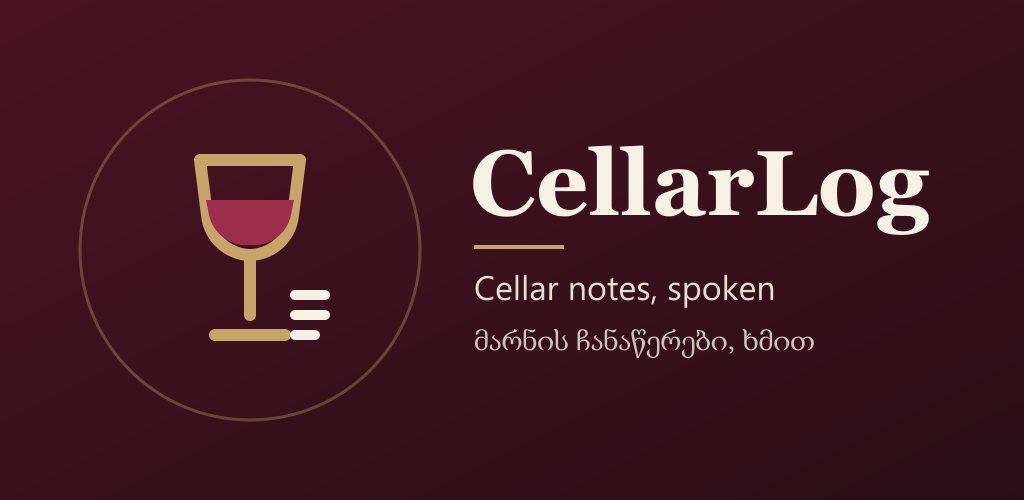
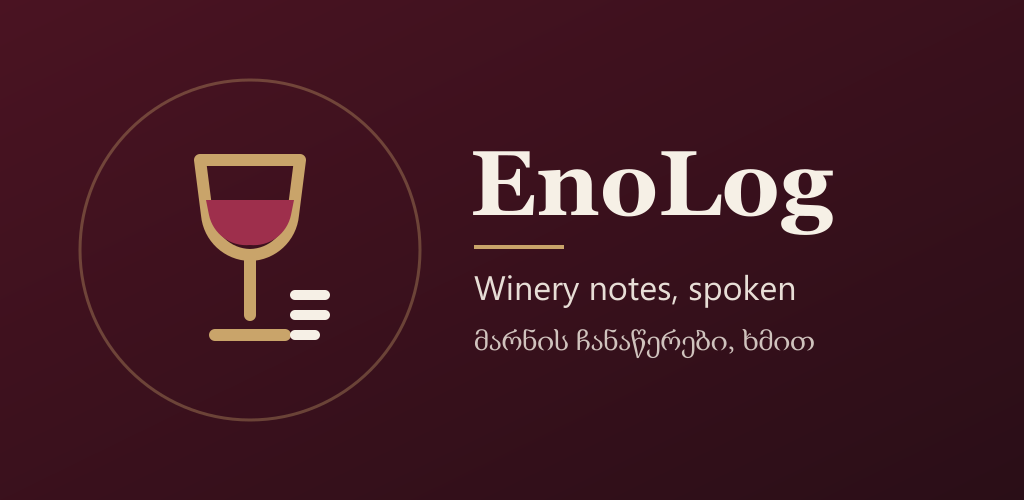
Rename the app to EnoLog (Play title: EnoLog: Winery Notes)

Changed region(s): [[0.4375, 0.27, 0.9062, 0.48], [0.4375, 0.54, 0.7812, 0.63]]

diff --git a/public/privacy.html b/public/privacy.html
@@ -3,8 +3,8 @@
 <head>
 <meta charset="utf-8">
 <meta name="viewport" content="width=device-width, initial-scale=1">
-<title>CellarLog – Privacy policy</title>
-<meta name="description" content="How CellarLog handles your data. კონფიდენციალურობის პოლიტიკა.">
+<title>EnoLog – Privacy policy</title>
+<meta name="description" content="How EnoLog handles your data. კონფიდენციალურობის პოლიტიკა.">
 <style>
   :root {
     --bg: #F6F0E6; --surface: #FFFDF9; --text: #241A17; --muted: #6B5B53;
@@ -43,7 +43,7 @@
 <body>
 <header>
   <div class="inner">
-    <h1>CellarLog</h1>
+    <h1>EnoLog</h1>
     <p>Privacy policy · კონფიდენციალურობის პოლიტიკა</p>
     <nav><a href="#en">English</a><a href="#ka">ქართული</a></nav>
   </div>
@@ -54,7 +54,7 @@
   <h2>Privacy policy</h2>
   <p class="muted">Last updated: 9 October 2026</p>
   <div class="card">
-    <p>CellarLog is a cellar log for winemakers: you record notes, additions and lab analyses for your tanks. This policy explains what data the app keeps, why, and how you can delete it. It applies to the Android app and the website at cellarlog.vercel.app.</p>
+    <p>EnoLog is a cellar log for winemakers: you record notes, additions and lab analyses for your tanks. This policy explains what data the app keeps, why, and how you can delete it. It applies to the Android app and the website at cellarlog.vercel.app.</p>
 
     <h3>What we store</h3>
     <ul>
@@ -64,7 +64,7 @@
     </ul>
 
     <h3>Voice notes and the microphone</h3>
-    <p>The app uses the microphone only while you tap the record button. Your speech is turned into text by your phone's own speech recognition (Google's service on Android), either on the phone or, if offline English isn't installed, by Google online. CellarLog never records, stores or receives audio. Only the text you choose to save is kept, as part of your entry.</p>
+    <p>The app uses the microphone only while you tap the record button. Your speech is turned into text by your phone's own speech recognition (Google's service on Android), either on the phone or, if offline English isn't installed, by Google online. EnoLog never records, stores or receives audio. Only the text you choose to save is kept, as part of your entry.</p>
 
     <h3>What we don't do</h3>
     <ul>
@@ -92,7 +92,7 @@
     <p>Deletion is permanent and immediate; nothing is kept afterwards except what the service providers keep in short-term backups, which expire on their own.</p>
 
     <h3>Children</h3>
-    <p>CellarLog is a professional tool for winemakers and is not meant for children under 13.</p>
+    <p>EnoLog is a professional tool for winemakers and is not meant for children under 13.</p>
 
     <h3>Changes and contact</h3>
     <p>If this policy changes, the new version will be posted on this page with a new date. Questions: <strong>menognishviligiorgi@gmail.com</strong>.</p>
@@ -103,7 +103,7 @@
   <h2>კონფიდენციალურობის პოლიტიკა</h2>
   <p class="muted">ბოლო განახლება: 2026 წლის 9 ოქტომბერი</p>
   <div class="card">
-    <p>CellarLog მეღვინის მარნის ჟურნალია: თქვენ ინახავთ შენიშვნებს, დამატებებს და ლაბორატორიულ ანალიზებს თქვენი ცისტერნებისთვის. ეს პოლიტიკა განმარტავს, რა მონაცემებს ინახავს აპი, რატომ და როგორ შეგიძლიათ მათი წაშლა. ის ვრცელდება Android აპზე და ვებგვერდზე cellarlog.vercel.app.</p>
+    <p>EnoLog მეღვინის მარნის ჟურნალია: თქვენ ინახავთ შენიშვნებს, დამატებებს და ლაბორატორიულ ანალიზებს თქვენი ცისტერნებისთვის. ეს პოლიტიკა განმარტავს, რა მონაცემებს ინახავს აპი, რატომ და როგორ შეგიძლიათ მათი წაშლა. ის ვრცელდება Android აპზე და ვებგვერდზე cellarlog.vercel.app.</p>
 
     <h3>რას ვინახავთ</h3>
     <ul>
@@ -113,7 +113,7 @@
     </ul>
 
     <h3>ხმოვანი ჩანაწერები და მიკროფონი</h3>
-    <p>აპი მიკროფონს მხოლოდ მაშინ იყენებს, როცა ჩაწერის ღილაკს შეეხებით. ხმას ტექსტად თქვენი ტელეფონის ხმის ამოცნობა აქცევს (Android-ზე Google-ის სერვისი) — ტელეფონზევე, ან, თუ ინგლისური ენა ოფლაინისთვის ჩამოტვირთული არ არის, Google-ის ონლაინ სერვისით. CellarLog აუდიოს არასოდეს იწერს, არ ინახავს და არ იღებს. ინახება მხოლოდ ის ტექსტი, რომელსაც თავად შეინახავთ ჩანაწერში.</p>
+    <p>აპი მიკროფონს მხოლოდ მაშინ იყენებს, როცა ჩაწერის ღილაკს შეეხებით. ხმას ტექსტად თქვენი ტელეფონის ხმის ამოცნობა აქცევს (Android-ზე Google-ის სერვისი) — ტელეფონზევე, ან, თუ ინგლისური ენა ოფლაინისთვის ჩამოტვირთული არ არის, Google-ის ონლაინ სერვისით. EnoLog აუდიოს არასოდეს იწერს, არ ინახავს და არ იღებს. ინახება მხოლოდ ის ტექსტი, რომელსაც თავად შეინახავთ ჩანაწერში.</p>
 
     <h3>რას არ ვაკეთებთ</h3>
     <ul>
@@ -141,7 +141,7 @@
     <p>წაშლა მყისიერი და საბოლოოა; შემდეგ არაფერი რჩება, გარდა სერვისის მომწოდებლების მოკლევადიანი სარეზერვო ასლებისა, რომლებიც თავისით იშლება.</p>
 
     <h3>ბავშვები</h3>
-    <p>CellarLog მეღვინეების პროფესიული ინსტრუმენტია და 13 წლამდე ბავშვებისთვის არ არის განკუთვნილი.</p>
+    <p>EnoLog მეღვინეების პროფესიული ინსტრუმენტია და 13 წლამდე ბავშვებისთვის არ არის განკუთვნილი.</p>
 
     <h3>ცვლილებები და კონტაქტი</h3>
     <p>თუ ეს პოლიტიკა შეიცვლება, ახალი ვერსია ამ გვერდზე გამოქვეყნდება ახალი თარიღით. კითხვები: <strong>menognishviligiorgi@gmail.com</strong>.</p>

diff --git a/lib/i18n/ka.ts b/lib/i18n/ka.ts
@@ -117,7 +117,7 @@ export const ka: Strings = {
     off: 'გამორთულია',
     every: (hours) => `ყოველ ${hours} სთ-ში`,
     body: 'დროა გაზომვისთვის: სიმკვრივე და ტემპერატურა.',
-    blocked: 'CellarLog-ისთვის შეტყობინებები დაბლოკილია. ტელეფონის პარამეტრებში ჩართეთ და სცადეთ ხელახლა.',
+    blocked: 'EnoLog-ისთვის შეტყობინებები დაბლოკილია. ტელეფონის პარამეტრებში ჩართეთ და სცადეთ ხელახლა.',
   },
 
   lineage: {
@@ -272,11 +272,11 @@ export const ka: Strings = {
     reviewNote: 'ტექსტის შემოწმება',
     forTank: (name) => name,
     voiceNeedsBuild:
-      'ხმოვან ჩანაწერებს CellarLog-ის აპი სჭირდება. Expo Go-ში ხმის ამოცნობა არ არის. შეგიძლიათ ტექსტი ქვემოთ აკრიფოთ.',
-    voiceInApp: 'ხმოვანი ჩანაწერები CellarLog-ის Android აპში მუშაობს. აქ აკრიფეთ შენიშვნა ქვემოთ ან გამოიყენეთ „ანალიზი“.',
-    micBlocked: 'მიკროფონი CellarLog-ისთვის გამორთულია. ჩართეთ პარამეტრებში ან აკრიფეთ ტექსტი ქვემოთ.',
+      'ხმოვან ჩანაწერებს EnoLog-ის აპი სჭირდება. Expo Go-ში ხმის ამოცნობა არ არის. შეგიძლიათ ტექსტი ქვემოთ აკრიფოთ.',
+    voiceInApp: 'ხმოვანი ჩანაწერები EnoLog-ის Android აპში მუშაობს. აქ აკრიფეთ შენიშვნა ქვემოთ ან გამოიყენეთ „ანალიზი“.',
+    micBlocked: 'მიკროფონი EnoLog-ისთვის გამორთულია. ჩართეთ პარამეტრებში ან აკრიფეთ ტექსტი ქვემოთ.',
     openSettings: 'პარამეტრების გახსნა',
-    micDenied: 'CellarLog-ს ჩანაწერების მოსასმენად მიკროფონი სჭირდება. შეეხეთ ღილაკს და აირჩიეთ „დაშვება“, ან აკრიფეთ ქვემოთ.',
+    micDenied: 'EnoLog-ს ჩანაწერების მოსასმენად მიკროფონი სჭირდება. შეეხეთ ღილაკს და აირჩიეთ „დაშვება“, ან აკრიფეთ ქვემოთ.',
     downloadText:
       'ხმა ახლა ინტერნეტს იყენებს. ჩამოტვირთეთ ინგლისური ენა ერთხელ (Wi-Fi-ზე), რომ მარანში ინტერნეტის გარეშეც ილაპარაკოთ.',
     downloadEnglish: 'ინგლისურის ჩამოტვირთვა ოფლაინისთვის',
@@ -483,7 +483,7 @@ export const ka: Strings = {
     colNote: 'შენიშვნა',
     empty: 'ჩანაწერები არ არის.',
     dayShort: (n) => `${n}-ე დღე`,
-    footer: (when) => `მომზადებულია CellarLog-ით, ${when}. ჩანაწერები ისეა ნაჩვენები, როგორც მეღვინემ შეიყვანა.`,
+    footer: (when) => `მომზადებულია EnoLog-ით, ${when}. ჩანაწერები ისეა ნაჩვენები, როგორც მეღვინემ შეიყვანა.`,
   },
 
   exportData: {
@@ -493,7 +493,7 @@ export const ka: Strings = {
     text: 'რომელი მონაცემები უნდა იყოს ფაილში?',
     wholeVessel: 'მთელი ჭურჭელი',
     nothing: 'გასატანი მონაცემები ჯერ არ არის.',
-    shareTitle: (tank) => `CellarLog · ${tank}`,
+    shareTitle: (tank) => `EnoLog · ${tank}`,
   },
 
   alerts: {

diff --git a/lib/i18n/en.ts b/lib/i18n/en.ts
@@ -119,7 +119,7 @@ export const en = {
     off: 'Off',
     every: (hours: number) => `Every ${hours} h`,
     body: 'Time for a reading: density and temperature.',
-    blocked: 'Notifications are blocked for CellarLog. Allow them in the phone settings, then try again.',
+    blocked: 'Notifications are blocked for EnoLog. Allow them in the phone settings, then try again.',
   },
 
   lineage: {
@@ -276,11 +276,11 @@ export const en = {
     reviewNote: 'Review note',
     forTank: (name: string) => `For ${name}`,
     voiceNeedsBuild:
-      "Voice notes need the CellarLog app build. Expo Go doesn't include speech recognition. You can type your note below.",
-    voiceInApp: 'Voice notes work in the CellarLog Android app. Here, type your note below or use the Analysis tab.',
-    micBlocked: 'Microphone access is turned off for CellarLog. Turn it on in Settings, or type your note below.',
+      "Voice notes need the EnoLog app build. Expo Go doesn't include speech recognition. You can type your note below.",
+    voiceInApp: 'Voice notes work in the EnoLog Android app. Here, type your note below or use the Analysis tab.',
+    micBlocked: 'Microphone access is turned off for EnoLog. Turn it on in Settings, or type your note below.',
     openSettings: 'Open settings',
-    micDenied: 'CellarLog needs the microphone to hear your notes. Tap the button and choose Allow, or type below.',
+    micDenied: 'EnoLog needs the microphone to hear your notes. Tap the button and choose Allow, or type below.',
     downloadText:
       'Voice uses the internet right now. Download English once (on Wi-Fi) to speak notes in the cellar without signal.',
     downloadEnglish: 'Download English for offline',
@@ -489,7 +489,7 @@ export const en = {
     colNote: 'Note',
     empty: 'No entries.',
     dayShort: (n: number) => `day ${n}`,
-    footer: (when: string) => `Prepared with CellarLog on ${when}. The records are shown as the winemaker entered them.`,
+    footer: (when: string) => `Prepared with EnoLog on ${when}. The records are shown as the winemaker entered them.`,
   },
 
   exportData: {
@@ -499,7 +499,7 @@ export const en = {
     text: 'Which data should the file contain?',
     wholeVessel: 'Whole vessel',
     nothing: 'There is nothing to export yet.',
-    shareTitle: (tank: string) => `CellarLog · ${tank}`,
+    shareTitle: (tank: string) => `EnoLog · ${tank}`,
   },
 
   alerts: {

diff --git a/app.config.ts b/app.config.ts
@@ -6,11 +6,12 @@ import type { ConfigContext, ExpoConfig } from 'expo/config';
 const IS_DEV = process.env.APP_VARIANT === 'development';
 const IS_PREVIEW = process.env.APP_VARIANT === 'preview';
 
-// com.cellarlog.app belongs to the Play Store app (production) and can never change there.
+// com.enolog.app belongs to the Play Store app (production) and can never change once it is uploaded.
+// The development and preview ids kept their old names, because they are installed on the phone and signed with their own keys.
 const getUniqueIdentifier = () =>
-  IS_DEV ? 'com.cellarlog.app.dev' : IS_PREVIEW ? 'com.cellarlog.app.preview' : 'com.cellarlog.app';
+  IS_DEV ? 'com.cellarlog.app.dev' : IS_PREVIEW ? 'com.cellarlog.app.preview' : 'com.enolog.app';
 
-const getAppName = () => (IS_DEV ? 'CellarLog Dev' : 'CellarLog');
+const getAppName = () => (IS_DEV ? 'EnoLog Dev' : 'EnoLog');
 
 export default ({ config }: ConfigContext): ExpoConfig => ({
   ...config,

diff --git a/components/BrandMark.tsx b/components/BrandMark.tsx
@@ -5,18 +5,18 @@ import { fonts, spacing, useTheme } from '@/theme';
 import { AppText } from './AppText';
 import { Icon } from './Icon';
 
-/** The CellarLog mark: a gold wine glass and the name, for the burgundy header. */
+/** The EnoLog mark: a gold wine glass and the name, for the burgundy header. */
 export function BrandMark({ size = 30 }: { size?: number }) {
   const { colors } = useTheme();
   return (
     <View
       accessibilityRole="header"
-      accessibilityLabel="CellarLog"
+      accessibilityLabel="EnoLog"
       style={{ flexDirection: 'row', alignItems: 'center', gap: spacing.sm }}
     >
       <Icon name="glass-wine" size={Math.round(size * 0.95)} color={colors.accent} />
       <AppText lang="en" style={{ color: colors.onHeader, fontFamily: fonts.display, fontSize: size, lineHeight: size + 4 }}>
-        CellarLog
+        EnoLog
       </AppText>
     </View>
   );

diff --git a/lib/exportCsv.ts b/lib/exportCsv.ts
@@ -115,13 +115,13 @@ export function entriesToCsv(input: {
     .join('\r\n') + '\r\n';
 }
 
-/** "cellarlog-tank-12-saperavi-2026-2026-10-18.csv" (letters of any script are kept). */
+/** "enolog-tank-12-saperavi-2026-2026-10-18.csv" (letters of any script are kept). */
 export function csvFilename(vesselName: string, fermentName: string | null, now: Date = new Date()): string {
   const slug = (text: string) =>
     text
       .toLowerCase()
       .replace(/[^\p{L}\p{N}]+/gu, '-')
       .replace(/^-+|-+$/g, '');
-  const parts = ['cellarlog', slug(vesselName) || 'vessel', fermentName ? slug(fermentName) : '', dayString(now)];
+  const parts = ['enolog', slug(vesselName) || 'vessel', fermentName ? slug(fermentName) : '', dayString(now)];
   return `${parts.filter((part) => part !== '').join('-')}.csv`;
 }

diff --git a/hooks/useSpeechToText.ts b/hooks/useSpeechToText.ts
@@ -11,7 +11,7 @@ import { strings } from '@/lib/i18n';
 /** Messages in the current language. */
 const m = () => strings().messages;
 
-// Loaded optionally: the native module only exists in CellarLog's own build,
+// Loaded optionally: the native module only exists in EnoLog's own build,
 // not in Expo Go, and importing 'expo-speech-recognition' directly would crash there.
 type SpeechModule = (typeof import('expo-speech-recognition'))['ExpoSpeechRecognitionModule'];
 const speech = requireOptionalNativeModule<SpeechModule>('ExpoSpeechRecognition');

diff --git a/app/(app)/voice-test.tsx b/app/(app)/voice-test.tsx
@@ -51,7 +51,7 @@ export default function VoiceTestScreen() {
   async function share() {
     setShareError(null);
     try {
-      await shareCsv(`cellarlog-georgian-voice-test-${dayString(new Date())}.csv`, resultsToCsv(all), t.voiceTest.title);
+      await shareCsv(`enolog-georgian-voice-test-${dayString(new Date())}.csv`, resultsToCsv(all), t.voiceTest.title);
     } catch (err) {
       setShareError(errorMessage(err));
     }

diff --git a/components/AppText.tsx b/components/AppText.tsx
@@ -14,7 +14,7 @@ type Variant = 'display' | 'heading' | 'title' | 'body' | 'label' | 'caption' | 
 type Props = TextProps & {
   variant?: Variant;
   muted?: boolean;
-  /** Force the script's fonts, e.g. 'en' for a Latin-only label like "EN" or "CellarLog". */
+  /** Force the script's fonts, e.g. 'en' for a Latin-only label like "EN" or "EnoLog". */
   lang?: Lang;
 };
 

diff --git a/docs/play-store/listing.md b/docs/play-store/listing.md
@@ -2,8 +2,8 @@
 
 Everything to paste into Play Console (https://play.google.com/console). The English text is the default listing; Georgian goes in as a translation (Store presence → Main store listing → Manage translations → Georgian – ka-GE).
 
-- **App name** (max 30): `CellarLog`
-- **Package name**: `com.cellarlog.app` (permanent once uploaded)
+- **App name** (max 30): `EnoLog: Winery Notes`
+- **Package name**: `com.enolog.app` (permanent once uploaded)
 - **Category**: Business. Tags: productivity, wine.
 - **Contact email**: menognishviligiorgi@gmail.com
 - **Website**: https://cellarlog.vercel.app
@@ -19,10 +19,10 @@ Everything to paste into Play Console (https://play.google.com/console). The Eng
 
 **Full description** (max 4000):
 
-> CellarLog is a cellar log for winemakers, built for wet hands, gloves and cellars without signal.
+> EnoLog is a cellar log for winemakers, built for wet hands, gloves and cellars without signal.
 >
 > SPEAK IT, DON'T TYPE IT
-> Tap the big button and say "Tank 12, added 20 grams per hectolitre SO2, temperature 22 degrees". CellarLog turns it into a structured entry on the right tank: the addition, the amount, the unit, the temperature. Check it, correct anything, save. Voice recognition runs on your phone.
+> Tap the big button and say "Tank 12, added 20 grams per hectolitre SO2, temperature 22 degrees". EnoLog turns it into a structured entry on the right tank: the addition, the amount, the unit, the temperature. Check it, correct anything, save. Voice recognition runs on your phone.
 >
 > LAB ANALYSES IN SECONDS
 > The Analysis tab has a field for every common value: free and total SO2, temperature, pH, titratable and volatile acidity, alcohol, Brix, residual sugar, density and volume. Add your own fields for anything else.
@@ -34,7 +34,7 @@ Everything to paste into Play Console (https://play.google.com/console). The Eng
 > • Search tanks by name, grape or vintage
 >
 > WORKS WITHOUT SIGNAL
-> Cellars rarely have reception. CellarLog keeps your tanks and timelines on the phone, and everything you record, edit or delete offline is saved and uploads by itself when you're back online.
+> Cellars rarely have reception. EnoLog keeps your tanks and timelines on the phone, and everything you record, edit or delete offline is saved and uploads by itself when you're back online.
 >
 > ENGLISH AND GEORGIAN
 > Every screen in English or Georgian, switched with one tap.
@@ -59,10 +59,10 @@ Everything to paste into Play Console (https://play.google.com/console). The Eng
 
 **სრული აღწერა** (max 4000):
 
-> CellarLog მეღვინის მარნის ჟურნალია — შექმნილი სველი ხელებისთვის, ხელთათმანებისთვის და მარნებისთვის, სადაც ინტერნეტი არ არის.
+> EnoLog მეღვინის მარნის ჟურნალია — შექმნილი სველი ხელებისთვის, ხელთათმანებისთვის და მარნებისთვის, სადაც ინტერნეტი არ არის.
 >
 > თქვით, ნუ აკრეფთ
-> შეეხეთ დიდ ღილაკს და თქვით (ინგლისურად): „Tank 12, added 20 grams per hectolitre SO2, temperature 22 degrees". CellarLog მას სწორ ცისტერნაზე სტრუქტურირებულ ჩანაწერად აქცევს: დამატება, რაოდენობა, ერთეული, ტემპერატურა. შეამოწმეთ, გაასწორეთ და შეინახეთ.
+> შეეხეთ დიდ ღილაკს და თქვით (ინგლისურად): „Tank 12, added 20 grams per hectolitre SO2, temperature 22 degrees". EnoLog მას სწორ ცისტერნაზე სტრუქტურირებულ ჩანაწერად აქცევს: დამატება, რაოდენობა, ერთეული, ტემპერატურა. შეამოწმეთ, გაასწორეთ და შეინახეთ.
 >
 > ლაბორატორიული ანალიზი წამებში
 > „ანალიზის“ ჩანართში ყველა ძირითადი მაჩვენებლის ველია: თავისუფალი და საერთო SO2, ტემპერატურა, pH, ტიტრული და აქროლადი მჟავიანობა, სპირტი, ბრიქსი, ნარჩენი შაქარი, სიმკვრივე და მოცულობა. დანარჩენისთვის საკუთარი ველები დაამატეთ.
@@ -74,7 +74,7 @@ Everything to paste into Play Console (https://play.google.com/console). The Eng
 > • ცისტერნების ძებნა სახელით, ჯიშით ან მოსავლის წლით
 >
 > მუშაობს ინტერნეტის გარეშე
-> მარანში კავშირი იშვიათია. CellarLog ცისტერნებს და ჟურნალებს ტელეფონზე ინახავს, ხოლო ოფლაინ ჩაწერილი, შეცვლილი ან წაშლილი ყველაფერი ინახება და თავისით აიტვირთება, როცა ინტერნეტი დაბრუნდება.
+> მარანში კავშირი იშვიათია. EnoLog ცისტერნებს და ჟურნალებს ტელეფონზე ინახავს, ხოლო ოფლაინ ჩაწერილი, შეცვლილი ან წაშლილი ყველაფერი ინახება და თავისით აიტვირთება, როცა ინტერნეტი დაბრუნდება.
 >
 > ქართული და ინგლისური
 > ყველა ეკრანი ქართულად ან ინგლისურად — ერთი შეხებით.
@@ -127,7 +127,7 @@ Everything to paste into Play Console (https://play.google.com/console). The Eng
   |---|---|---|---|---|
   | Personal info → Email address | Yes | No | Required | Account management |
   | App activity → Other user-generated content (tanks, notes, analyses) | Yes | No | Required | App functionality |
-  | Audio → Voice or sound recordings | **No**: speech is converted to text on the phone by Google's recognizer; CellarLog never receives audio |  |  |  |
+  | Audio → Voice or sound recordings | **No**: speech is converted to text on the phone by Google's recognizer; EnoLog never receives audio |  |  |  |
 - Location, contacts, photos, files, financial info, health, device IDs: not collected.
 
 **Permissions**: RECORD_AUDIO, only while the user taps record, for voice notes.
@@ -137,7 +137,7 @@ Everything to paste into Play Console (https://play.google.com/console). The Eng
 ## Release steps
 
 1. Create the Play Console developer account (personal, $25, ID verification).
-2. Create the app: name CellarLog, default language English (United States), App, Free.
+2. Create the app: name EnoLog, default language English (United States), App, Free.
 3. Fill in Store listing (texts and graphics above) and App content (forms above).
 4. **Closed testing** (required for new personal accounts):
    - Create a track, add **at least 12 testers** (their Google account emails), and upload the first `.aab` by hand.

diff --git a/CLAUDE.md b/CLAUDE.md
@@ -1,14 +1,23 @@
-# CellarLog
+# EnoLog
 
 A winemaker's cellar log. The user speaks or types a short note ("Tank 12, added 20 g/hl SO2, temp 22°C"). The phone turns speech into text and a rule-based parser turns the text into structured data, all on the device: no n8n, no AI service. The user confirms or corrects it, and it is saved as an entry on that tank.
 
 Stack: Expo SDK 57 (React Native 0.86), TypeScript (strict), Expo Router, Supabase (Postgres + email/password auth), expo-speech-recognition (the phone's own speech recognizer), EAS Build (development build).
 
+## Name
+
+The app is called **EnoLog** (Play Store title "EnoLog: Winery Notes"; it was CellarLog until 21 Oct 2026). What deliberately kept the old name, because changing it would break something installed or linked:
+- the web address **cellarlog.vercel.app** (rename the Vercel project in its dashboard to get another; then update `lib/links.ts`, `public/privacy.html`, `docs/play-store/listing.md` and the GitHub "About" website),
+- the GitHub repo name, the EAS slug `cellarlog` (the EAS project is matched by it), and the Supabase project name,
+- the development and preview Android ids `com.cellarlog.app.dev` / `.preview` and the schemes `cellarlog*` (they are installed on the phone with their own signing keys),
+- the storage keys `cellarlog:v1:…` and the reminder ids `cellarlog-reminder:…` (renaming them would orphan the saved copy and the queued changes on every phone).
+The **production** id is `com.enolog.app` (not uploaded to Play yet, so it could still change).
+
 ## Commands
 
 ```bash
 npm install                 # install dependencies
-npx expo start --clear      # dev server (Metro); the CellarLog dev build loads the app from it
+npx expo start --clear      # dev server (Metro); the EnoLog dev build loads the app from it
 npm run phone               # then: connect the phone over USB (adb reverse) and open the dev build on Metro
 npm test                    # unit tests for lib/ (parser, normaliser, validation, tank matching, offline cache + outbox)
 npm run typecheck           # tsc --noEmit
@@ -24,12 +33,12 @@ Run `npm test`, `npm run typecheck` and `npm run lint` before declaring any task
 
 ## Development build (not Expo Go)
 
-Speech recognition is a native module that Expo Go doesn't include, so CellarLog runs as its own **development build** (`eas.json` profile `development`, Android package `com.cellarlog.app.dev`, name "CellarLog Dev").
+Speech recognition is a native module that Expo Go doesn't include, so EnoLog runs as its own **development build** (`eas.json` profile `development`, Android package `com.cellarlog.app.dev`, name "EnoLog Dev").
 - **App ids** (`app.config.ts`): development `com.cellarlog.app.dev`, preview `com.cellarlog.app.preview`, and production (Play Store) `com.cellarlog.app`, which is permanent once uploaded. All three install side by side.
   - Dev builds made before the Play Store setup still carry `com.cellarlog.app`; `npm run phone` accepts either until the Dev app is rebuilt.
 - JavaScript/TypeScript changes reload instantly from Metro. No rebuild needed.
 - **Rebuild only after native changes**: adding or removing a package with native code, or editing plugins or permissions in `app.json`.
-- In Expo Go the app still runs; the voice button is replaced by a "needs the CellarLog app build" note (`SPEECH_AVAILABLE` in `hooks/useSpeechToText.ts`).
+- In Expo Go the app still runs; the voice button is replaced by a "needs the EnoLog app build" note (`SPEECH_AVAILABLE` in `hooks/useSpeechToText.ts`).
 - Metro picks up newly installed packages only after a restart (`npx expo start --clear`).
 - **Connecting the phone**: the dev network isolates devices (no LAN, ngrok unreliable), so the phone reaches Metro over USB.
   - `npm run phone` (`scripts/phone.mjs`) checks Metro and the phone, waits for "Allow USB debugging", runs `adb reverse tcp:8081 tcp:8081`, and reopens the dev build on `http://127.0.0.1:8081`.
@@ -133,7 +142,7 @@ scripts/        test.mjs: compiles the pure lib/ modules and runs tests/
 - **Dates:** `lib/format.ts` uses the language's words and Georgian month abbreviations (`time.months`).
 - **Fonts:** Cormorant and Source Sans have no Georgian letters.
   - In Georgian, `AppText` maps each family to Noto Serif / Noto Sans Georgian (`georgianFamily`). It scales serif sizes by 0.8 and keeps line height at least 1.35×.
-  - `TextField` and the Analysis inputs do the same. Pass `lang="en"` for Latin-only labels ("CellarLog", "EN").
+  - `TextField` and the Analysis inputs do the same. Pass `lang="en"` for Latin-only labels ("EnoLog", "EN").
 - **Voice and typed notes are English only** (the user's decision: Georgian speech recognition isn't reliable enough). In Georgian, the record tab says so and points to the Analysis tab.
   - `tankKey` understands "ცისტერნა 12" / "ც12", so an English "tank 12" finds a Georgian-named tank.
 

diff --git a/README.md b/README.md
@@ -1,7 +1,7 @@
-# CellarLog
+# EnoLog
 
 A winemaker's cellar log for Android (and iOS). Speak or type a note like
-"Tank 12, added 20 g/hl SO2, temp 22°C" and CellarLog saves it as a structured
+"Tank 12, added 20 g/hl SO2, temp 22°C" and EnoLog saves it as a structured
 entry on that tank. Speech recognition and parsing run on the phone: no AI
 service or extra backend, and voice works offline once English is downloaded.
 
@@ -25,8 +25,8 @@ Built with Expo (React Native), TypeScript, Expo Router and Supabase.
 4. **Environment variables.** Copy `.env.example` to `.env` and fill in the
    project URL and publishable key from **Project Settings -> API Keys**.
 
-5. **Install the CellarLog development build on your phone** (once, and again only after native changes).
-   Speech recognition isn't part of Expo Go, so CellarLog runs as its own app:
+5. **Install the EnoLog development build on your phone** (once, and again only after native changes).
+   Speech recognition isn't part of Expo Go, so EnoLog runs as its own app:
 
    ```bash
    npx eas-cli@latest login
@@ -50,7 +50,7 @@ Built with Expo (React Native), TypeScript, Expo Router and Supabase.
    npm run phone
    ```
 
-   It connects the phone to Metro over the cable and opens CellarLog. Run it again after
+   It connects the phone to Metro over the cable and opens EnoLog. Run it again after
    replugging the phone. It needs Android platform-tools (adb) in
    `%LOCALAPPDATA%\Android\Sdk\platform-tools` or `ANDROID_HOME`.
 
